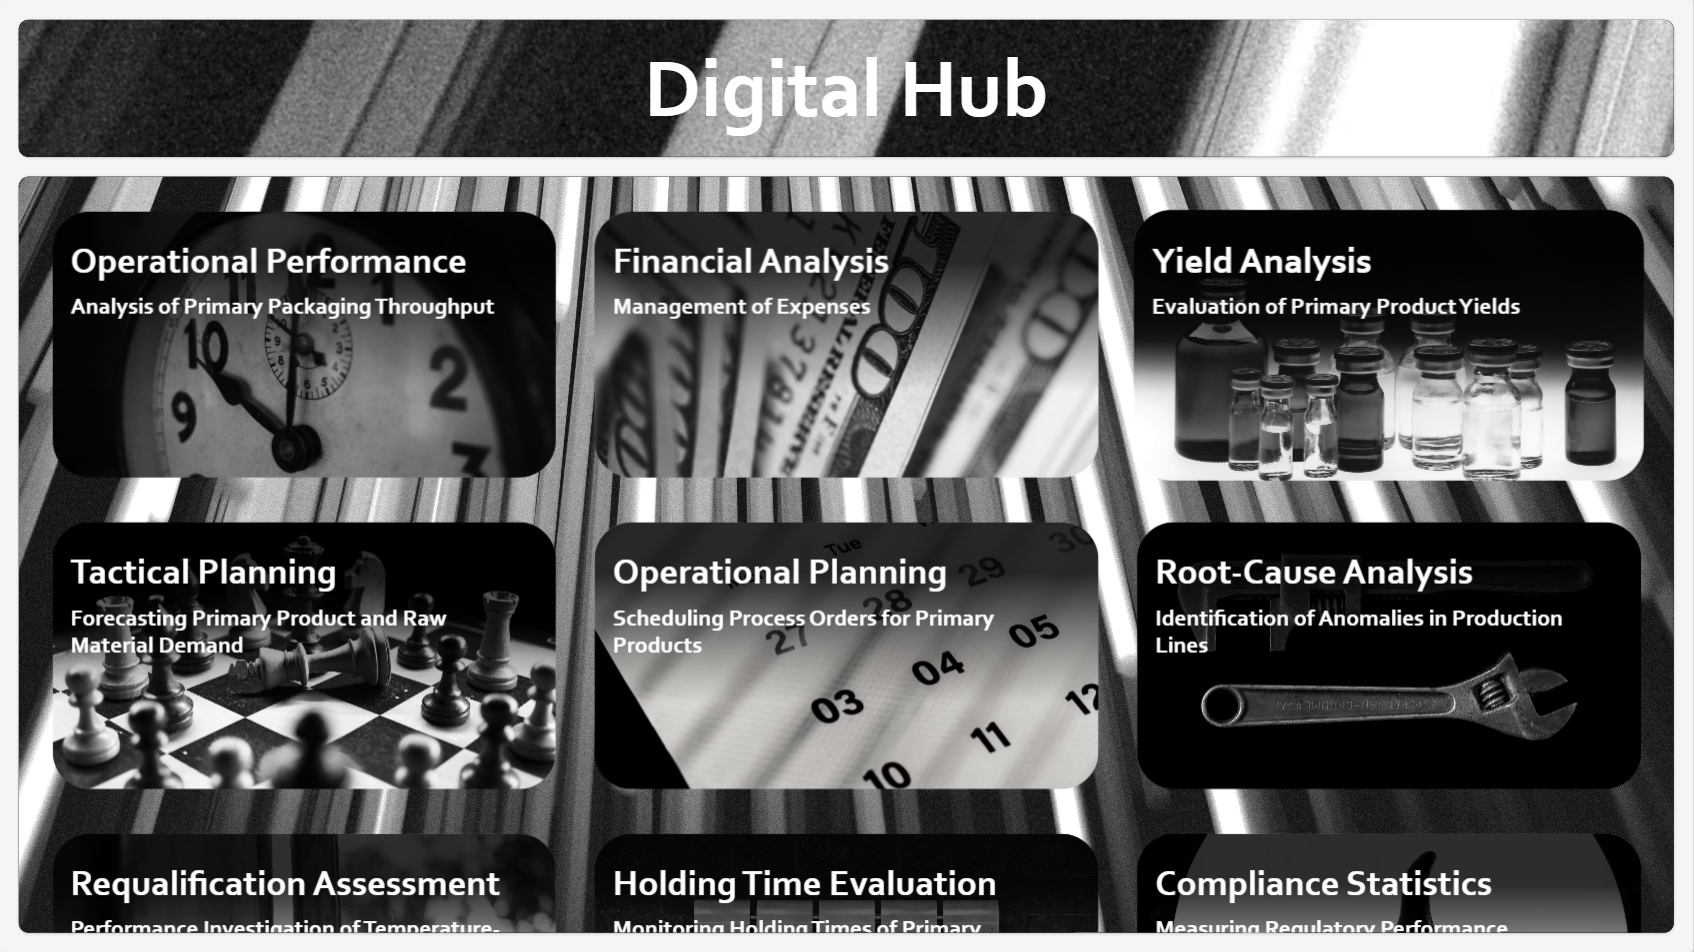
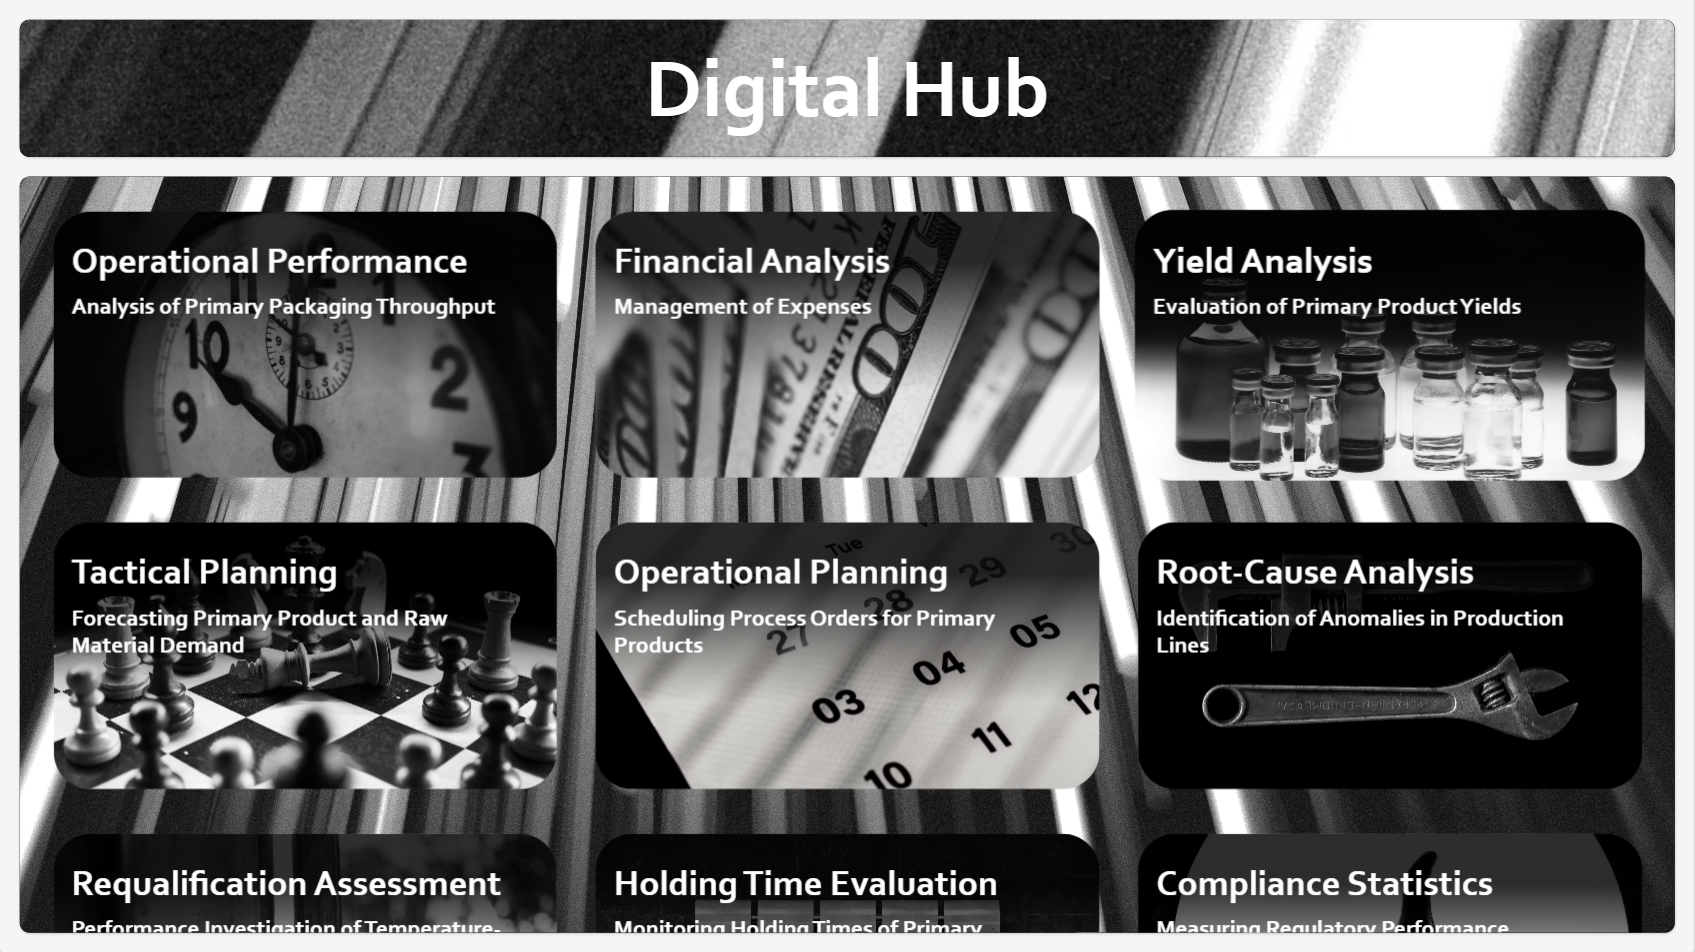
fixes

diff --git a/_projects/2025-01-30-digital-manufacturing.md b/_projects/2025-01-30-digital-manufacturing.md
@@ -21,9 +21,16 @@ In the final stage of the (sterile) manufacture of biologics (large molecules), 
 
 A plethora of data is generated, which can be utilised for decision-making or for sampling. This encompasses data from manufacturing instructions, deviation reports, electronic batch records, sensor and alarm data from the operational historian, or business data from the enterprise resource system. The objective of this endeavour was to scrutinise and digitalise the manual processes and to leverage the available data to cultivate a culture of data-driven pharmaceutical manufacturing. This culminated in the establishment of a **digital hub**.
 
-<div class="gallery" data-columns="1">
+<!-- <div class="gallery" data-columns="1">
     <img src="/images/projects/digital-manufacturing/digital_hub.png">
-</div>
+</div> -->
+
+<center>
+<figure>
+<img src="/images/projects/digital-manufacturing/digital_hub.png" width="1000">
+<figcaption><b>Fig. 2:</b> Digital hub.</figcaption>
+</figure>
+</center>
 
 <!-- > "Do not wait; the time will never be 'just right.' Start where you stand, and work with whatever tools you may have at your command, and better tools will be found as you go along." - George Herbert -->
 
@@ -149,7 +156,7 @@ For further details on the metrics, calculations, and examples, please refer to 
 
 ### Data Analytics
 
-<div class="gallery" data-columns="1">
+<div class="gallery" data-columns="3">
     <img src="/images/projects/digital-manufacturing/requalification_assessment.png">
     <img src="/images/projects/digital-manufacturing/requalification_assessment_1.png">
     <img src="/images/projects/digital-manufacturing/root_cause_analysis_1.png">
